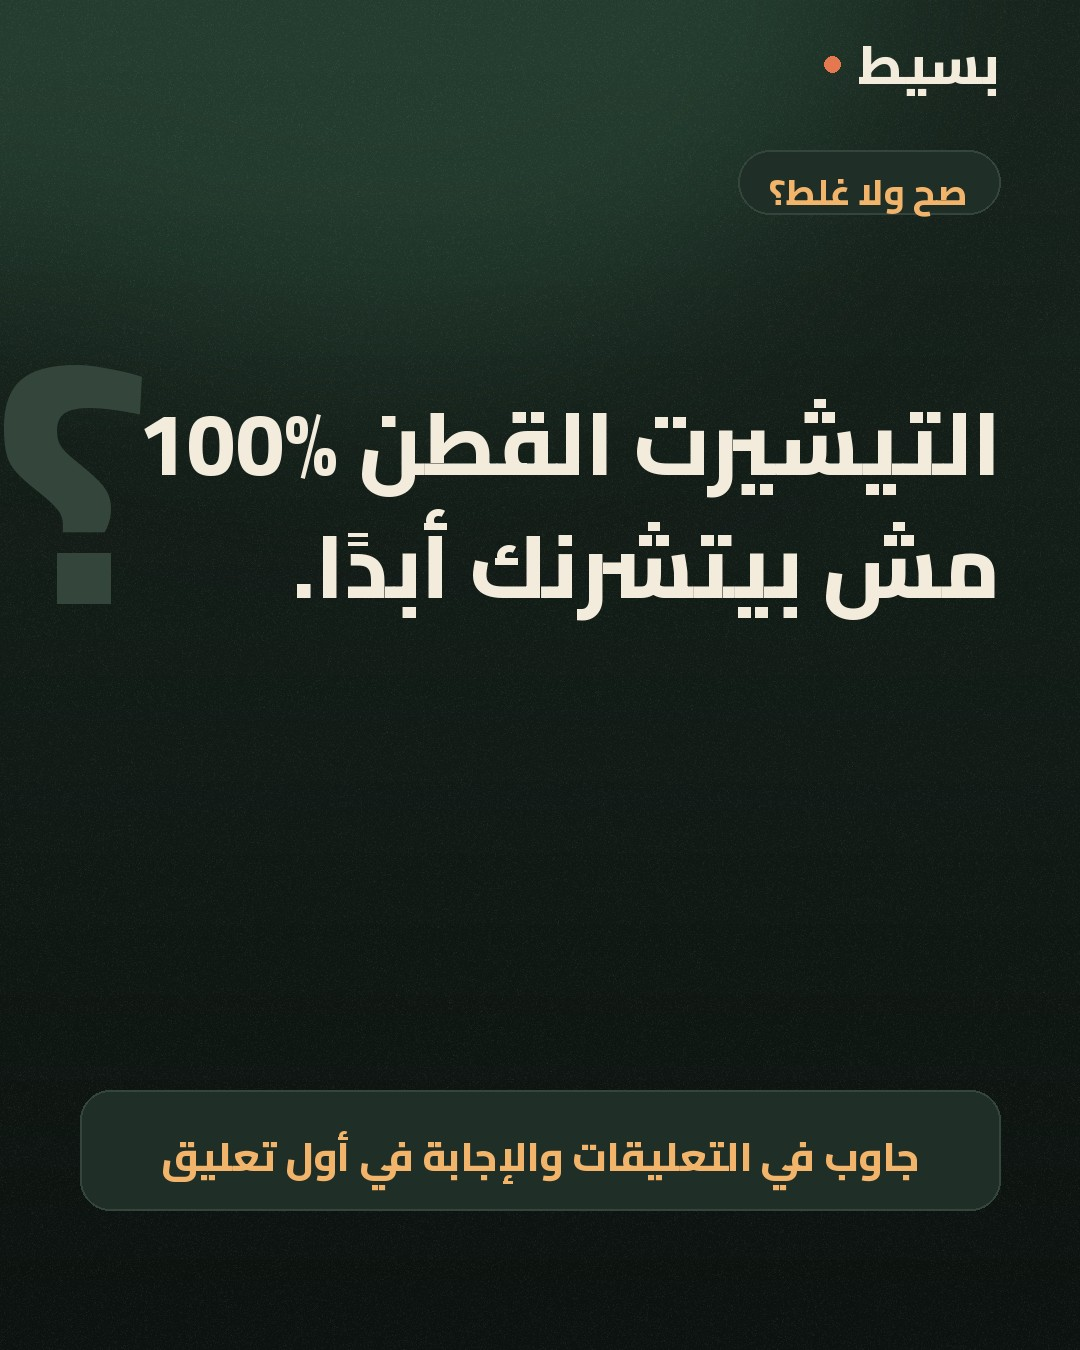
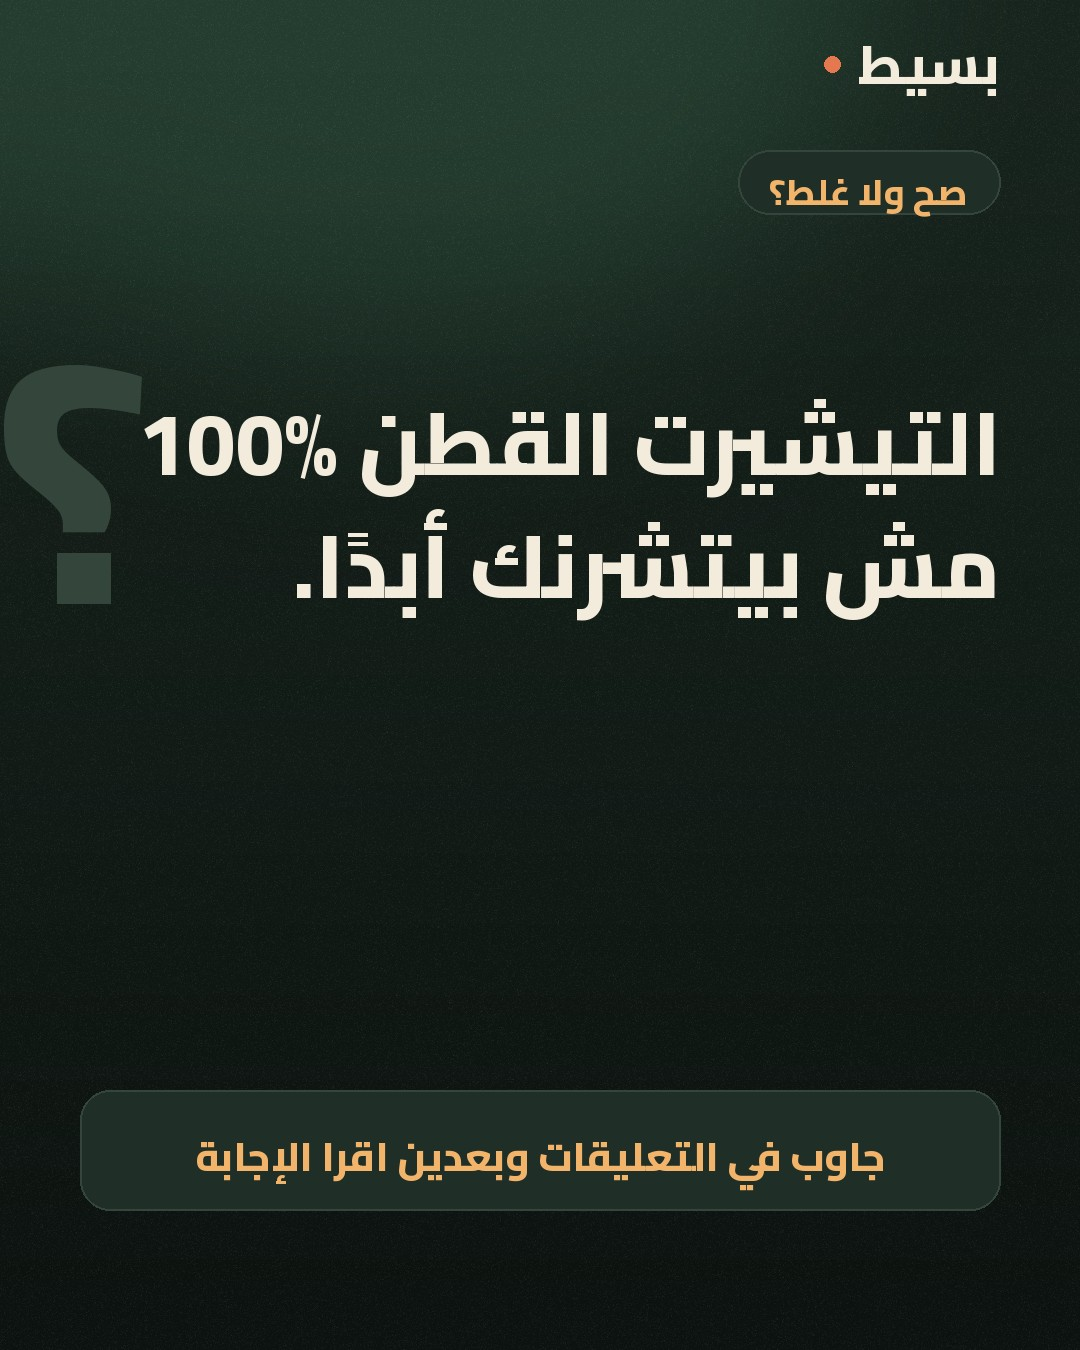
Myth cards: answer inside caption (Buffer free plan has no first comment)
Claude-Session: https://claude.ai/code/session_01DVSa8HmepnLsgKu6jsXMHW

Changed region(s): [[0.1528, 0.84, 0.8556, 0.9022]]

diff --git a/tools/build_nov.py b/tools/build_nov.py
@@ -36,10 +36,13 @@ def build_cards():
         p = os.path.join(OUT, date + "-M.jpg")
         fn = dict(poll=e.poll_card, myth=e.myth_card, stat=e.stat_card)[m["kind"]]
         fn(m).save(p, quality=90, optimize=True)
-        item = dict(date=date, time=times["M"], slot="M", kind="image", images=["nov/%s-M.jpg" % date],
-                    text=m["cap"] + "\n\n" + HASH, alt=m.get("question") or m.get("statement") or m.get("caption"))
+        text = m["cap"] + "\n\n" + HASH
         if m.get("answer"):
-            item["first_comment"] = m["answer"]
+            # الإجابة جوه الكابشن بعد سطور فاضية (Buffer المجاني مش بيدعم أول تعليق)
+            text = ("صح ولا غلط؟ جاوب في التعليقات الأول. 👇\n\nالإجابة تحت بعد ما تجاوب\n.\n.\n.\n.\n.\n.\n"
+                    + m["answer"] + "\n\n" + HASH)
+        item = dict(date=date, time=times["M"], slot="M", kind="image", images=["nov/%s-M.jpg" % date],
+                    text=text, alt=m.get("question") or m.get("statement") or m.get("caption"))
         cal.append(item)
         # كاروسيل
         c = d["car"]

diff --git a/tools/v2engine.py b/tools/v2engine.py
@@ -68,7 +68,7 @@ def myth_card(spec):
     c.text("؟", 150, 160, 340, C["line"], True)
     c.block(spec["statement"], R, 360, 88, 900, lh=1.4)
     c.rrect([80, 1090, R, 1210], C["card"], 30, outline=C["line"])
-    c.text("جاوب في التعليقات والإجابة في أول تعليق", W // 2, 1118, 40, C["acc2"], True, anchor="ma")
+    c.text("جاوب في التعليقات وبعدين اقرا الإجابة", W // 2, 1118, 40, C["acc2"], True, anchor="ma")
     return c.img.convert("RGB")
 
 
